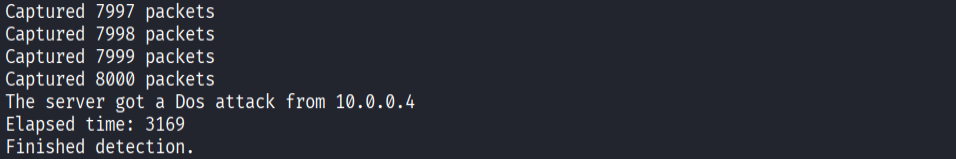
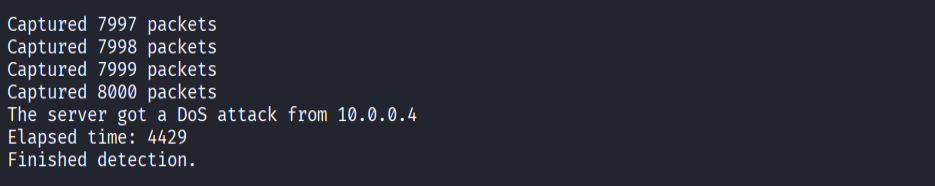
[rename]: rename keyword anti_DOS to anti-DoS

Changed region(s): [[0.0, 0.4528, 0.4652, 0.9811], [0.0, 0.0252, 0.2481, 0.4277]]

diff --git a/tools/anti-DoS/src/anti-DoS.cpp b/tools/anti-DoS/src/anti-DoS.cpp
@@ -45,7 +45,7 @@ void got_packet(u_char *args, const struct pcap_pkthdr *header, const u_char *pa
 			state->timeEnd = std::chrono::steady_clock::now();
 			std::chrono::milliseconds elapsedTime = std::chrono::duration_cast<std::chrono::milliseconds>(state->timeEnd - state->timeBegin);
 			if(elapsedTime.count() <= DOSTIMETHRESHOLD){
-				printf("The server got a Dos attack from %s\n", captured_packet.src_ip);
+				printf("The server got a DoS attack from %s\n", captured_packet.src_ip);
 
 				LogEvent event;
 				event.event_time = format_timestamp_from_header(header);